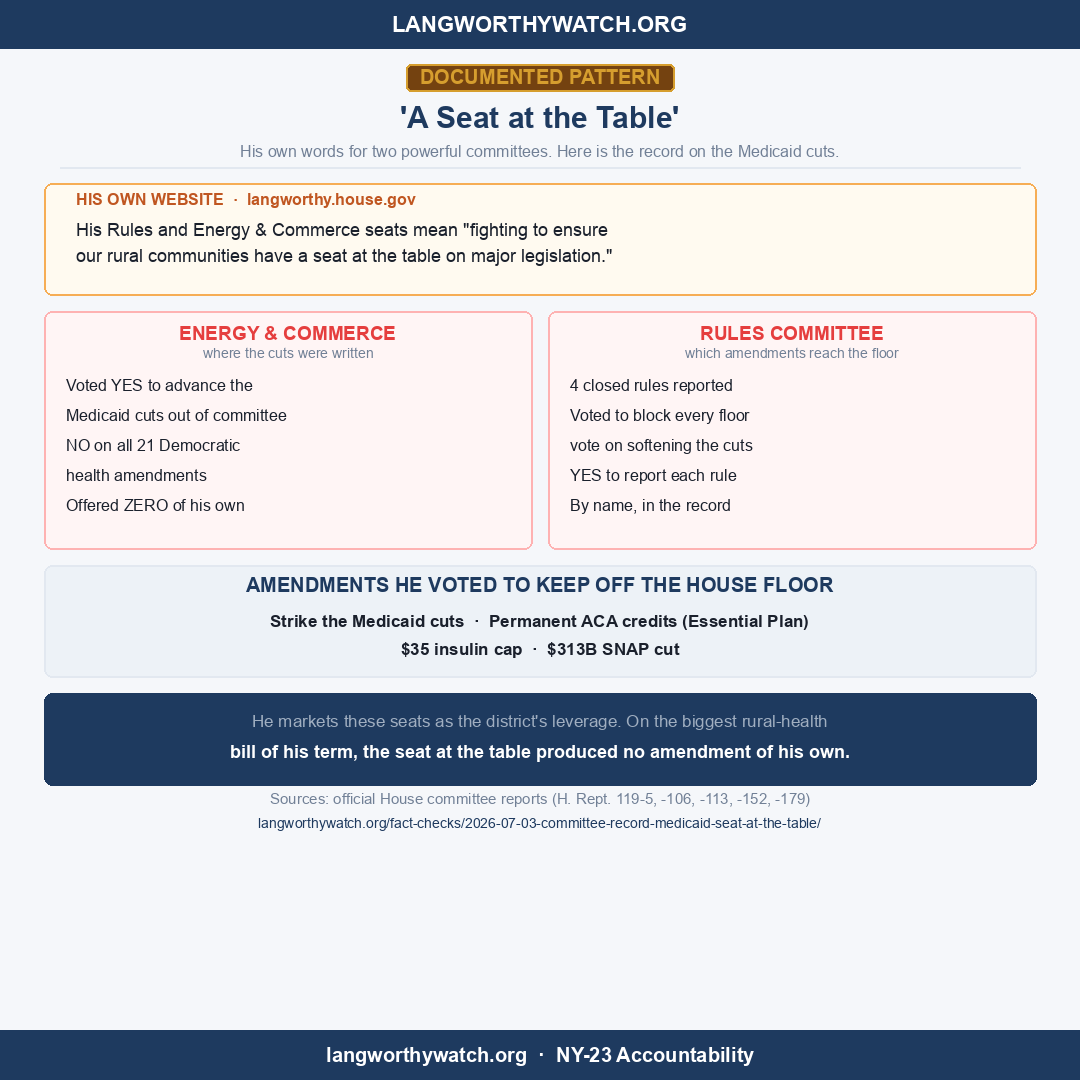
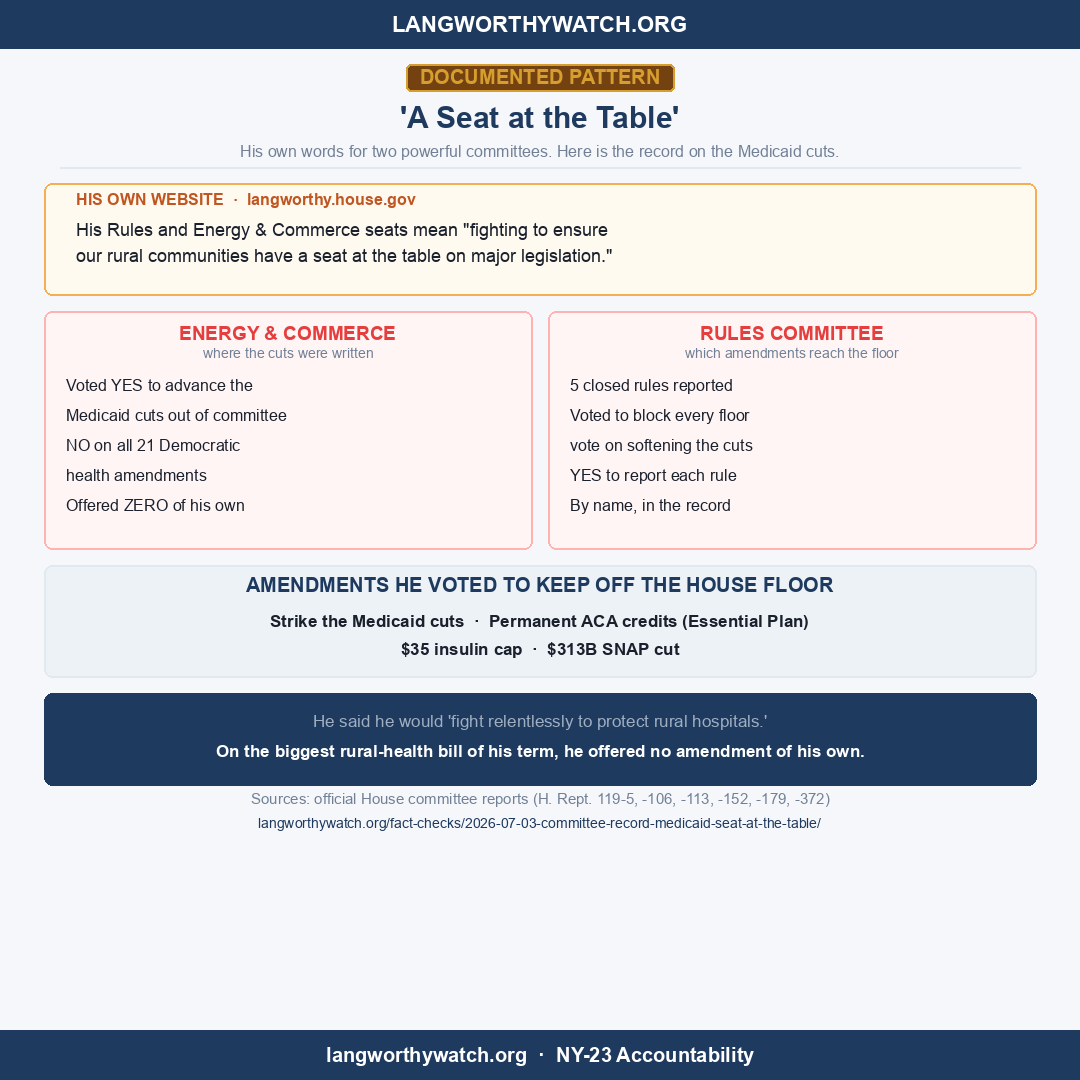
update(social): committee-record card — 5 closed rules, his rural-hospital quote
Sync the card to the updated entry: '4 closed rules' -> '5' (adds the
Nov 2025 CR minibus rule), kicker now uses his verified own words
('fight relentlessly to protect rural hospitals'), sources add H. Rept.
119-372.

Changed region(s): [[0.2139, 0.6417, 0.7944, 0.7028], [0.2444, 0.7333, 0.7639, 0.7639]]

diff --git a/social-media/create_committee_record_card.py b/social-media/create_committee_record_card.py
@@ -61,7 +61,7 @@ draw.rounded_rectangle([(rx,y),(rx+col_w,y+col_h)],radius=8,fill="#FFF5F5",outli
 draw.text((rx+col_w//2,y+22),"RULES COMMITTEE",fill=RED,font=f_colh,anchor="mm")
 draw.text((rx+col_w//2,y+42),"which amendments reach the floor",fill=MUTED,font=font("Arial.ttf",14),anchor="mm")
 for i,(t) in enumerate([
-    "4 closed rules reported",
+    "5 closed rules reported",
     "Voted to block every floor",
     "vote on softening the cuts",
     "YES to report each rule",
@@ -81,13 +81,13 @@ y+=strip_h+16
 # kicker
 kick_h=92
 draw.rounded_rectangle([(44,y),(WIDTH-44,y+kick_h)],radius=8,fill=NAVY)
-draw.text((WIDTH//2,y+28),"He markets these seats as the district's leverage. On the biggest rural-health",
+draw.text((WIDTH//2,y+28),"He said he would 'fight relentlessly to protect rural hospitals.'",
           fill=LIGHTGRAY,font=font("Arial.ttf",17),anchor="mm")
-draw.text((WIDTH//2,y+58),"bill of his term, the seat at the table produced no amendment of his own.",
-          fill=WHITE,font=font("Arial Bold.ttf",18),anchor="mm")
+draw.text((WIDTH//2,y+58),"On the biggest rural-health bill of his term, he offered no amendment of his own.",
+          fill=WHITE,font=font("Arial Bold.ttf",17),anchor="mm")
 y+=kick_h+14
 
-draw.text((WIDTH//2,y),"Sources: official House committee reports (H. Rept. 119-5, -106, -113, -152, -179)",
+draw.text((WIDTH//2,y),"Sources: official House committee reports (H. Rept. 119-5, -106, -113, -152, -179, -372)",
           fill=MUTED,font=f_src,anchor="mm"); y+=24
 draw.text((WIDTH//2,y),"langworthywatch.org/fact-checks/2026-07-03-committee-record-medicaid-seat-at-the-table/",
           fill=NAVY,font=font("Arial.ttf",14),anchor="mm")